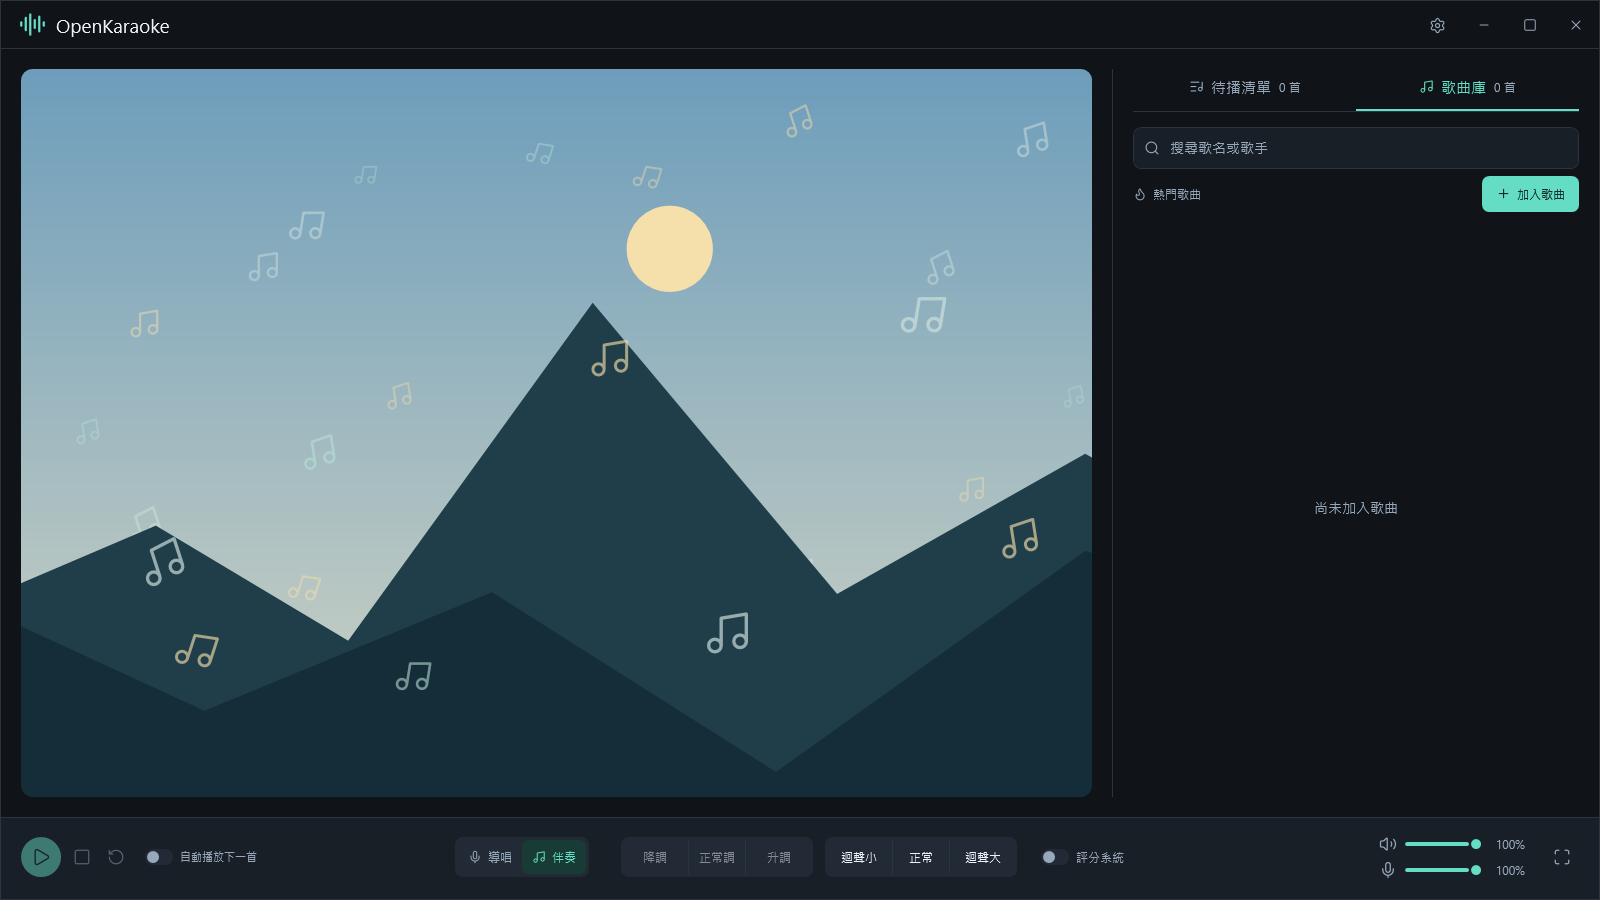
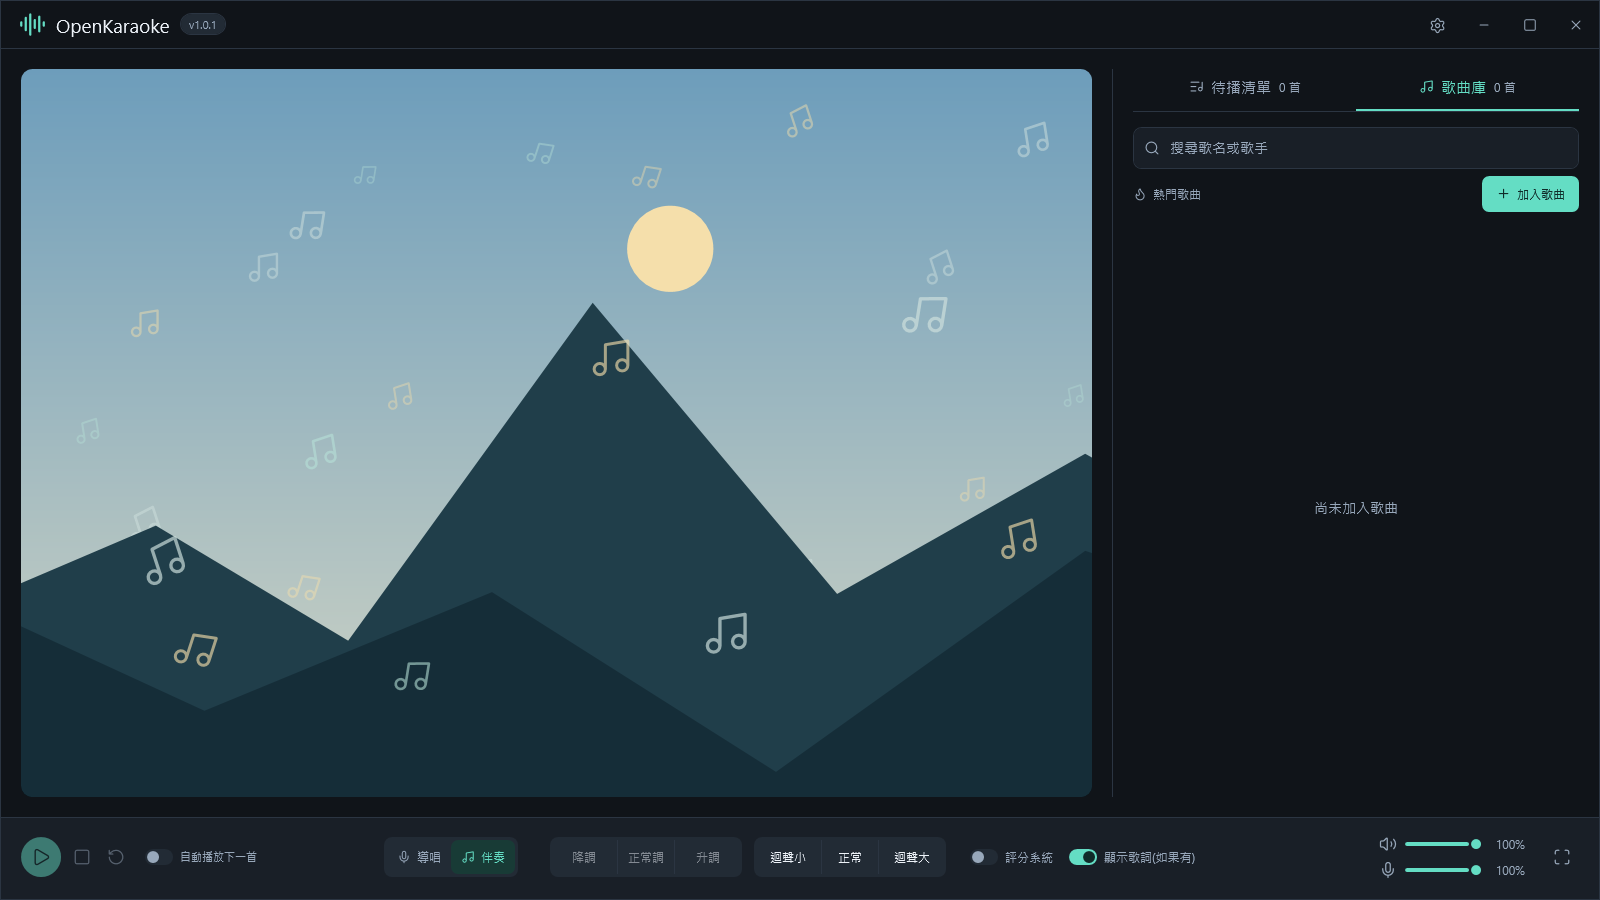
Update README for OpenKaraoke 1.0.1

diff --git a/README.md b/README.md
@@ -14,22 +14,21 @@ Windows 桌面 K 歌軟體，從製作伴唱、點歌演唱，到錄音與音準
 
 </div>
 
-![OpenKaraoke 桌面畫面：歌曲庫、待播清單與演唱控制](docs/assets/overview.png)
+![OpenKaraoke 桌面畫面：版本號、歌曲庫、演唱控制與歌詞開關](docs/assets/overview.png)
 
 ## 功能
 
 - **製作自己的伴唱歌曲**：從 YouTube 網址製作歌曲，在本機分離導唱與伴奏；也能匯入 `.opok` 歌曲，並相容舊的 `.openkaraoke`。
 - **點歌與管理歌庫**：搜尋歌名或歌手、安排待播順序，支援重唱及自動下一首。
 - **調整演唱音效**：切換導唱／伴奏、升降調與迴聲，支援全螢幕演唱。
+- **匯入同步歌詞**：加入歌曲時可匯入歌詞，選擇滾動或 KTV 逐字顯示，並在「設定 → 顯示」調整字體大小。
 - **用電腦或手機收音**：電腦音訊輸入與手機來源二擇一；手機不需安裝 App，最多兩支共同演唱。
 - **查看音準表現**：旋律音條隨歌曲捲動，音符完成後呈現紅綠結果，提供三種評分難度。
 - **回顧這次演唱**：同步聆聽音樂與人聲錄音、查看音準記錄，並可下載錄音。
 
 ## 開始使用
 
-> **目前為開發版本，尚無正式 Release。** 首個正式版預定為 1.0.0；正式套件將提供於 [Releases](https://github.com/tm3u/OpenKaraoke/releases)。
-
-取得 Windows 執行套件後，只要三步：
+到 [Releases](https://github.com/tm3u/OpenKaraoke/releases/latest) 下載 Windows x64 執行版，再依下列步驟開始使用：
 
 1. **開啟程式**：完整解壓縮 `OpenKaraoke-Standalone-win-x64.zip`，執行最外層的 `OpenKaraoke.exe`，不需另外安裝 .NET。請保留隨附資料夾。
 2. **加入歌曲**：匯入 `.opok` 或舊的 `.openkaraoke`，或輸入 YouTube 網址、歌名與歌手，加入處理清單。
